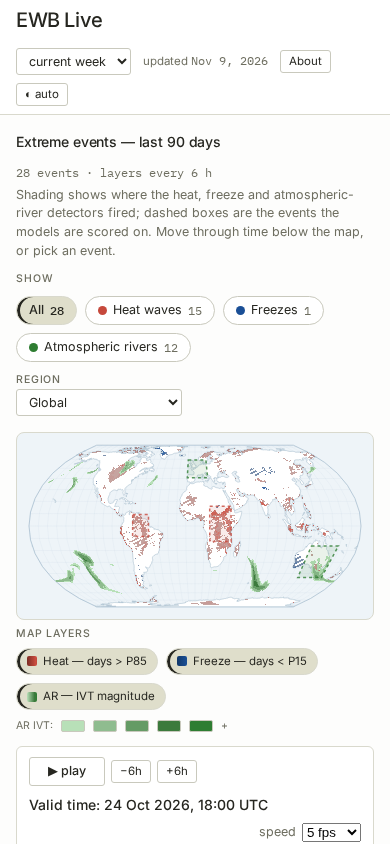
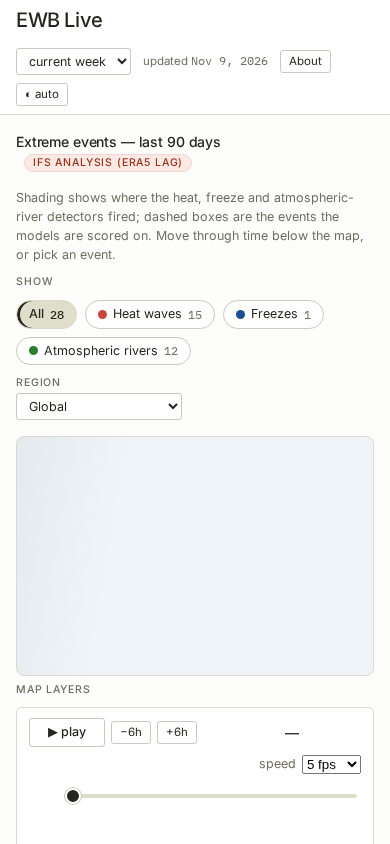
regions: review-package addendum for fable-review (its items 1 and 2 shipped) + clobber postmortem

diff --git a/notes/regions_integration_fable.md b/notes/regions_integration_fable.md
@@ -133,3 +133,40 @@ After the fix the script reproduces the pipeline-generated file exactly.
    but some cells have zero-width CIs).
 3. Public front still points at :8050 (app direct) rather than the :8080 nginx
    cache front — pre-existing, README §Public URL; unaffected by this work.
+
+---
+
+## Addendum, 2026-11-10 ~12:10Z — the two open items you flagged are now live
+
+You signed off the integration and named exactly the two things the owner then
+asked for, so this is the answer to your own review items 1 and 2:
+
+**Footprint rule (your item 1) is shipped, at >25 %.** `ewb_live/regions.py`
+unpacks each event's mask from its viz asset and counts cell overlap; centroid
+survives as the documented fallback and the JSON declares which rule produced
+it (`assignment`). Live numbers did not move today (28 = 9 + 14 + 5; NA 1, EU 6)
+— this universe's masks sit well inside their boxes, and sweeping 5 %…50 % moved
+only 3–4 memberships, all at the ±20° hemispheric seam, never dropping an event.
+So the rule is a correctness fix for thin rivers, not a re-labelling of the
+current page: nothing to re-review in the layout, and the counts stay honest.
+
+**Small-sample cue (your item 2) is shipped.** Cells under 5 events (threshold
+from the server, `assignment.min_sample`) get a soft halo + corner pip, plus
+words in the lane header, under the verdict strip and in the tooltip — your
+"never colour-only" rule, and it appears only where it is true: Global today
+flags 60 of 188 cells, all in the one-event freeze lane; Tropics (9) and Europe
+(6) are clean; North America flags 60/61, which is the truth about one event.
+Placement is unchanged from what you approved — the region control still sits in
+the explore filter row beside the type tabs, and the note lives in the
+scorecard's own strip, not a new toolbar.
+
+**One thing that needed your eyes' absence to notice:** the box is a projection of
+whichever lane last ran `ops/remote.sh run|bg|sync`, because that command rsyncs
+the caller's tree first. At 11:14:50Z a run from a tree predating the regions work
+silently reverted my 11:05 deploy. Both `dogfish/` and `fable-review/` now carry
+the regions files byte-identical to `regional-breakdowns/` (uncommitted, yours or
+the orchestrator's to commit), so a sync from either lane reproduces live state
+instead of undoing it — verified: the 12:03Z run from `dogfish` left the site
+byte-identical. If you touch `dashboard/*` again, `dashboard/regions.json`,
+`EwbRegions` in `app.js` and the `.small-n` rules in `styles.css` are the parts
+that must come with you; `notes/channel_regions.md` has the details.
